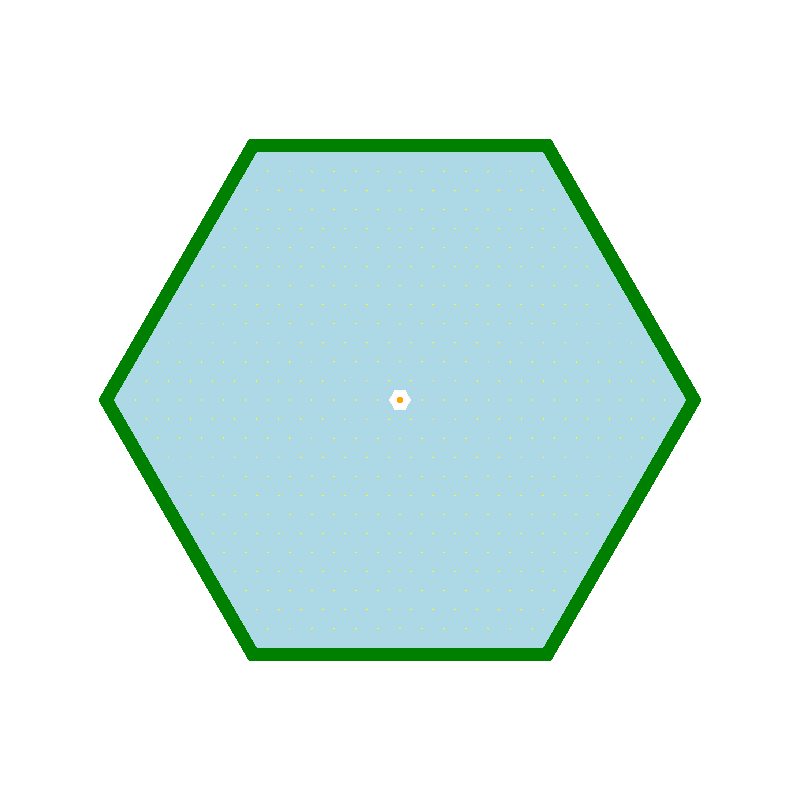
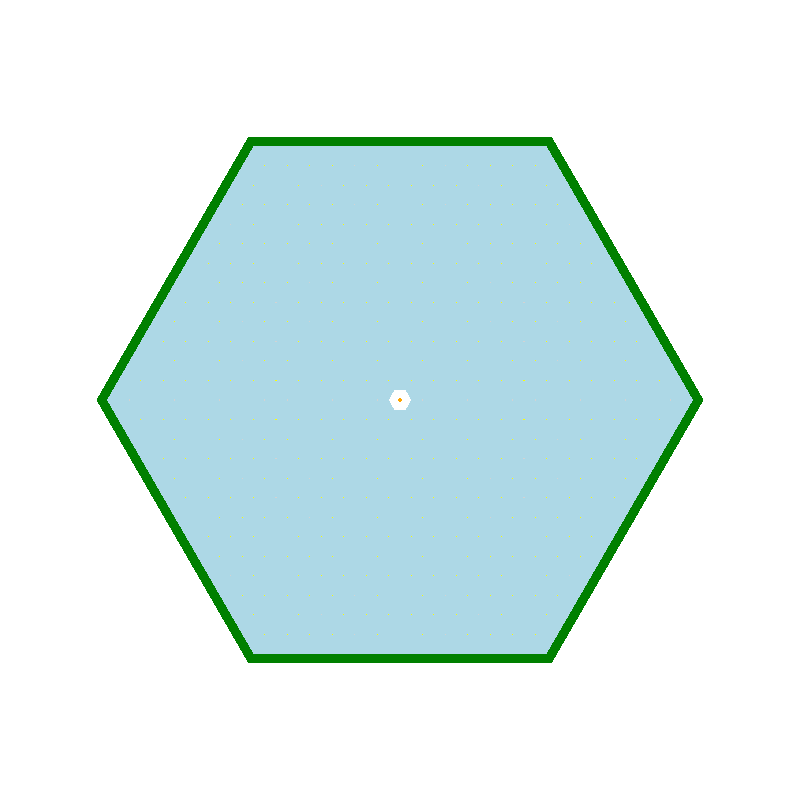
varie

diff --git a/Open MC/Programmi_nel_tempo.py b/Open MC/Programmi_nel_tempo.py
@@ -1,13 +1,15 @@
-#import subprocess
+import subprocess
 
-#print("Inizio esecuzione sequenziale...")
-#
-#print("Esecuzione di circolarita_k_max.py in reattore_8 a <= 50PCM...")
-#subprocess.run(["python", "circolarita_k_max.py"], cwd="reattore_8/50PCM/circolarita_k_max", check=True)
-#
-#print("Esecuzione di run_pot.py in reattore_8 a <= 50PCM...")
-#subprocess.run(["python", "run_pot.py"], cwd="reattore_8/50PCM", check=True)
-#
+print("Inizio esecuzione sequenziale...")
+
+print("Esecuzione di reattore_5 ...")
+subprocess.run(["python", "esecuzione_multipla.py"], cwd="reattore_5/auto", check=True)
+
+print("Esecuzione di arricchimenti in reattore_9 ")
+subprocess.run(["python", "arricchimenti_VS_pitch.py"], cwd="reattore_9", check=True)
+
+print("Esecuzione di potenza in reattore_9 ")
+subprocess.run(["python", "run_pot.py"], cwd="reattore_9", check=True)
 
 
 #import subprocess
@@ -27,22 +29,22 @@
 
 #print("Tutte le simulazioni sono terminate con successo.")
 
-import subprocess
-import time
+#import subprocess
+#import time
 
 # Imposta il tempo di attesa (es. 3 ore)
-attesa_secondi =  3*3600 
-print(f"Inizio conteggio: attesa di {attesa_secondi/3600} ore...")
-time.sleep(attesa_secondi)
+#attesa_secondi =  3*3600 
+#print(f"Inizio conteggio: attesa di {attesa_secondi/3600} ore...")
+#time.sleep(attesa_secondi)
 
-print("--- FASE 1: Avvio arricchimenti_VS_pitch.py ---")
+#print("--- FASE 1: Avvio arricchimenti_VS_pitch.py ---")
 # Usiamo subprocess.run senza check=True così continua anche se il primo script fallisce
-subprocess.run(["python", "arricchimenti_VS_pitch.py"], cwd="reattore_9")
+#subprocess.run(["python", "arricchimenti_VS_pitch.py"], cwd="reattore_9")
 
-print("--- FASE 1 COMPLETATA (o terminata con errore) ---")
+#print("--- FASE 1 COMPLETATA (o terminata con errore) ---")
 
-print("--- FASE 2: Avvio run_pot.py ---")
+#print("--- FASE 2: Avvio run_pot.py ---")
 # Ora parte il secondo
-subprocess.run(["python", "run_pot.py"], cwd="reattore_9")
+#subprocess.run(["python", "run_pot.py"], cwd="reattore_9")
 
-print("Tutte le simulazioni programmate sono state eseguite.")
+#print("Tutte le simulazioni programmate sono state eseguite.")

diff --git a/Open MC/reattore_9/run_pot.py b/Open MC/reattore_9/run_pot.py
@@ -21,29 +21,29 @@ def parse_result_final(filename):
     return pd.DataFrame(data, columns=columns)
 
 # 1. Lettura dei risultati
-
-os.makedirs('fixed/statepoints', exist_ok=True)
+statepoints_dir = 'fixed/statepoints'
+os.makedirs(statepoints_dir, exist_ok=True)
 
 df_results = parse_result_final('result_final.txt')
 notebook_in = 'fixed/fixed.ipynb'
 
-# Definizione della riga di partenza (0-based: 3 corrisponde alla quarta riga dei dati validi)
-riga_partenza = 25
-
-# 2. Esecuzione ciclica con slicing del DataFrame
-for idx, row in df_results.iloc[riga_partenza:].iterrows():
+# 2. Esecuzione ciclica con controllo automatico dei file esistenti
+for idx, row in df_results.iterrows():
     
-
-    # ID univoco CORRETTO per il salvataggio dei file (mantiene 3 decimali)
+    # ID univoco per il salvataggio dei file
     run_id = f"pitch_{row['moltiplicatore']:.3f}".replace('.', '_')
+    
+    # Controllo dinamico: verifica se esiste già un file contenente il run_id nella directory
+    if any(run_id in filename for filename in os.listdir(statepoints_dir)):
+        print(f"-> Simulazione per {run_id} già completata. Salto.")
+        continue
     
     print(f"Avvio simulazione fixed: {run_id} con ARR. INT : {row['arricch_INT']:.3f}, e ARR. EXT : {row['arricch_EXT']:.3f} ...")
 
-    
     pm.execute_notebook(
         notebook_in,
         os.devnull,
-        cwd='fixed/statepoints',
+        cwd=statepoints_dir,
         parameters=dict(
             pressione_atm=row['pressione_atm'],
             moltiplicatore=row['moltiplicatore'],

diff --git a/Open MC/reattore_9/arricchimenti_VS_pitch.py b/Open MC/reattore_9/arricchimenti_VS_pitch.py
@@ -56,7 +56,7 @@ def parse_result_auto(filename):
 # FASE 1: RICERCA ARRICCHIMENTO (SURROGATE MODELING - PCHIP)
 # ==========================================
 
-a_m = 0.05     
+a_m = 0.1
 w = 0.15         
 
 notebook_auto = 'auto/auto.ipynb'
